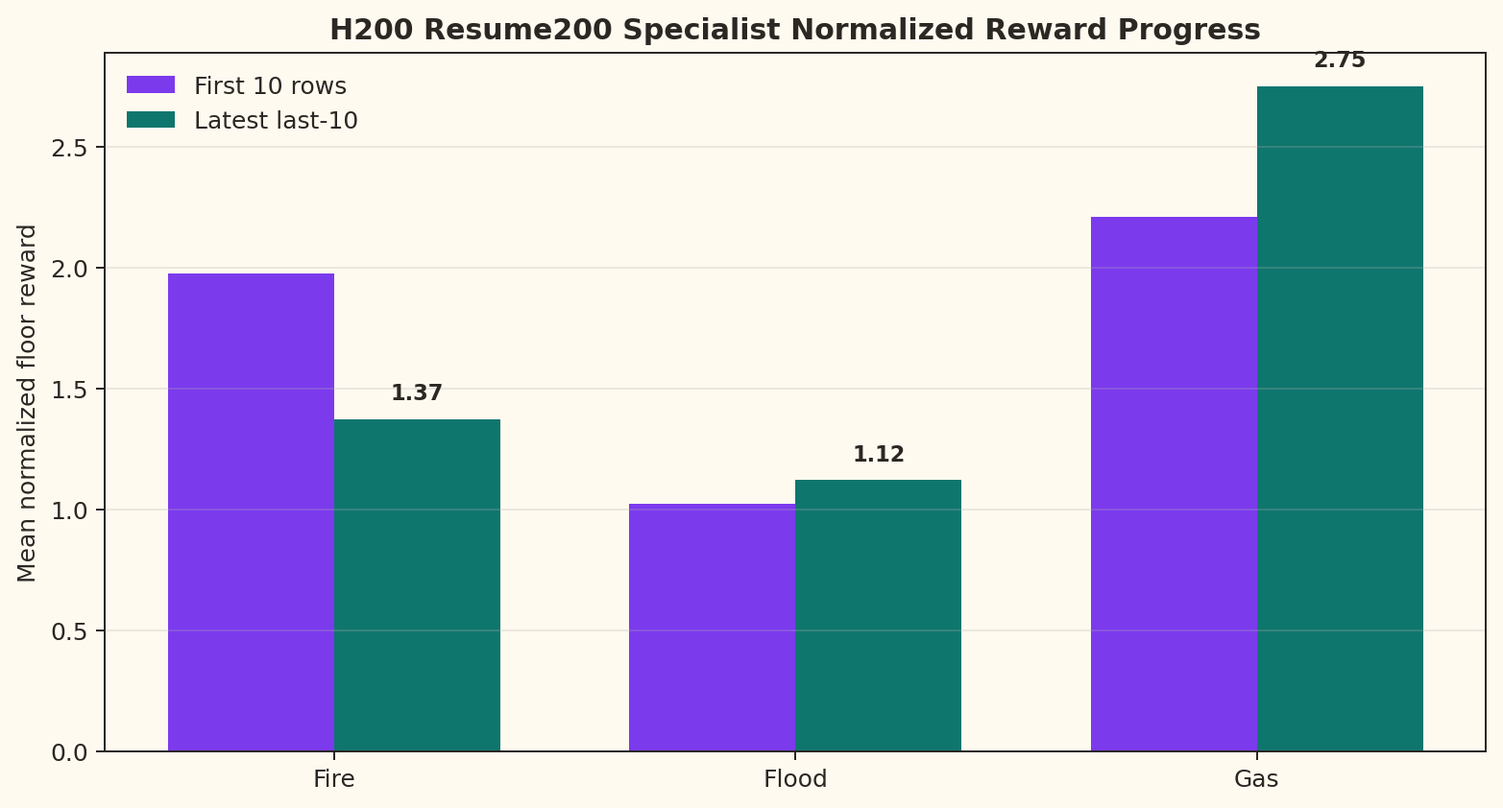
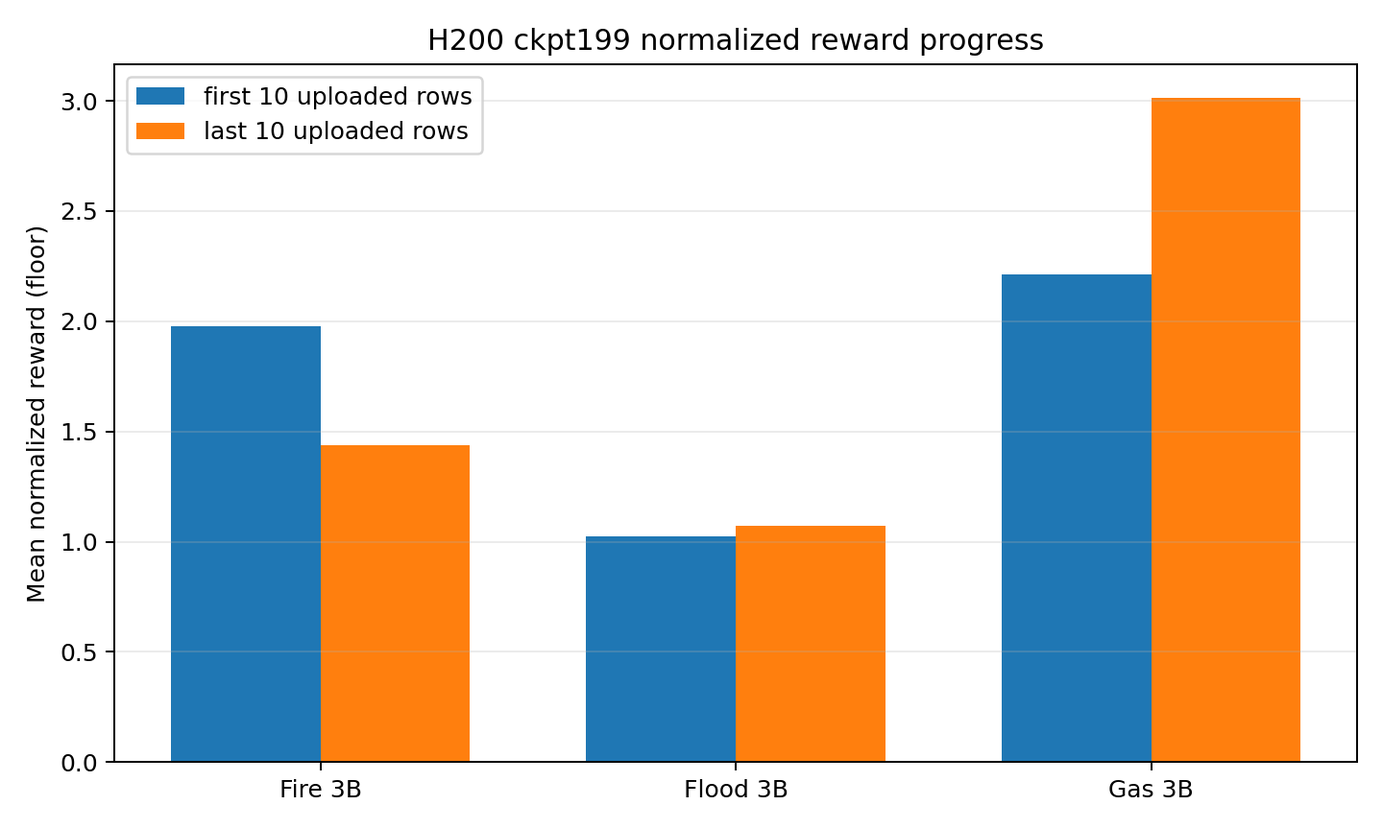
Audit heldout evidence and refresh ckpt199 metrics

diff --git a/evaluation/fixed_suite.py b/evaluation/fixed_suite.py
@@ -181,6 +181,16 @@ def _eval_score_pct(*, save_rate: float, invalid_action_rate: float) -> float:
     return 100.0 * _clamp01(save_rate) * _clamp01(valid_multiplier)
 
 
+def _bounded_civilian_counts(*, total: int, saved: int, lost: int) -> tuple[int, int, int]:
+    """Return evaluation-safe counts even if a simulator trace double-counts a cohort."""
+
+    bounded_total = max(int(total), 1)
+    bounded_saved = max(0, min(int(saved), bounded_total))
+    bounded_lost = max(0, min(int(lost), bounded_total - bounded_saved))
+    bounded_remaining = max(0, bounded_total - bounded_saved - bounded_lost)
+    return bounded_saved, bounded_lost, bounded_remaining
+
+
 def _resolve_reward_config(
     reward_config: Mapping[str, object] | None,
     rationale_mode: str,
@@ -252,9 +262,12 @@ def _build_episode_result(
 
     state = env.get_internal_state(actual_episode_id)
     total_civilians = max(state.total_civilians.total, 1)
-    saved = state.civilians_saved.total
-    lost = state.civilians_lost.total
-    remaining = max(total_civilians - saved - lost, 0)
+    saved, lost, remaining = _bounded_civilian_counts(
+        total=total_civilians,
+        saved=state.civilians_saved.total,
+        lost=state.civilians_lost.total,
+    )
+    save_rate = float(saved / total_civilians)
 
     floor_raw = _mean(
         value for key, value in batch_result.total_raw_reward_by_role.items() if key != "orchestrator"
@@ -280,12 +293,12 @@ def _build_episode_result(
         wall_clock_s=float(batch_result.wall_clock_seconds),
         termination_reason=batch_result.done_reason,
         total_civilians=int(total_civilians),
-        civilians_saved=saved,
-        civilians_lost=lost,
+        civilians_saved=int(saved),
+        civilians_lost=int(lost),
         civilians_remaining=int(remaining),
-        save_rate=float(saved / total_civilians),
+        save_rate=save_rate,
         eval_score_pct=_eval_score_pct(
-            save_rate=float(saved / total_civilians),
+            save_rate=save_rate,
             invalid_action_rate=float(invalid_count / action_count) if action_count else 0.0,
         ),
         invalid_action_rate=float(invalid_count / action_count) if action_count else 0.0,

diff --git a/tests/test_fixed_suite.py b/tests/test_fixed_suite.py
@@ -11,6 +11,7 @@ from training.policy_adapter import StubPolicy
 from evaluation.fixed_suite import (
     EpisodeResult,
     FixedSuiteResult,
+    _bounded_civilian_counts,
     _count_actions,
     _seed_eval_normalizer,
     run_fixed_suite,
@@ -79,6 +80,14 @@ def test_action_diagnostics_count_current_and_legacy_action_names():
         counts,
         ("evacuate_floor_priority", "evacuate_floor", "evacuate_room"),
     ) == 4
+
+
+def test_bounded_civilian_counts_prevent_impossible_eval_totals():
+    saved, lost, remaining = _bounded_civilian_counts(total=10, saved=14, lost=3)
+
+    assert saved == 10
+    assert lost == 0
+    assert remaining == 0
 
 
 def test_fixed_suite_json_round_trip():

diff --git a/README.md b/README.md
@@ -49,7 +49,7 @@ but also:
 | Public model/artifact repo | [shashankN777/evacos2-7b-orchestrator-artifacts](https://huggingface.co/shashankN777/evacos2-7b-orchestrator-artifacts) |
 | Source code on GitHub | [sai-shashankN/EvacOS2](https://github.com/sai-shashankN/EvacOS2) |
 
-**Evidence status:** the repo now includes a judge-clean held-out `3B` specialist comparison: Qwen2.5-3B base/no-LoRA versus the trained LoRA specialists on the same unseen seeds, same evaluator, and same family-specific lanes. On this `30`-episode controlled proof slice, trained LoRA floor specialists improved the average eval score from `58.65%` to `80.45%` and reduced invalid actions from `39.18%` to `0.87%`. The `7B` orchestrator remains smoke/training-signal validated rather than claimed as a converged held-out policy.
+**Evidence status:** the repo now includes a held-out `3B` specialist comparison: Qwen2.5-3B base/no-LoRA versus the trained LoRA specialists on the same unseen seeds, same evaluator, and same family-specific lanes. On this `30`-episode controlled proof slice, trained LoRA floor specialists improved the bounded eval score from `58.65%` to `80.45%` and reduced invalid actions from `39.18%` to `0.87%`. The scorecard also records raw save-rate overflow counts as an evaluator audit trail, so the safest headline is the invalid-action reduction plus bounded score movement rather than a claim of final convergence. The `7B` orchestrator remains smoke/training-signal validated rather than claimed as a converged held-out policy.
 
 **Benchmark scope note:** the submitted specialist proof lane uses a controlled fixed-suite slice so the public baseline-vs-trained comparison is deterministic, cheap enough to rerun, and easy to audit. The simulator and training stack are designed for broader curricula; expanding the same fixed-suite evaluator to higher-difficulty slices is future evaluation work, not a change to the environment architecture.
 
@@ -66,7 +66,7 @@ but also:
 | Floor-only 3B specialist lanes | Deterministic stub orchestrator + trainable `3B` floor policy for `fire`, `flood`, or `gas` | Implemented / canary and quality-run configs ready | [training/config.remote-unsloth-3b-fire-floor-specialist-signal-canary-10.yaml](training/config.remote-unsloth-3b-fire-floor-specialist-signal-canary-10.yaml), [training/config.remote-unsloth-3b-fire-floor-specialist-canary-50.yaml](training/config.remote-unsloth-3b-fire-floor-specialist-canary-50.yaml), [training/config.remote-unsloth-3b-fire-floor-specialist-quality-400.yaml](training/config.remote-unsloth-3b-fire-floor-specialist-quality-400.yaml), [training/config.remote-unsloth-3b-flood-floor-specialist-quality-500.yaml](training/config.remote-unsloth-3b-flood-floor-specialist-quality-500.yaml), [training/config.remote-unsloth-3b-gas-floor-specialist-quality-700.yaml](training/config.remote-unsloth-3b-gas-floor-specialist-quality-700.yaml) |
 | Specialist routing | Deterministic single-disaster router with generalist fallback for mixed/cascade scenarios | Implemented | [training/scope_router.py](training/scope_router.py) |
 | H200 / HF Jobs specialist artifacts | Public fire/flood/gas `3B` floor-specialist canary adapters plus logs and metrics | Public canary artifact trail is linked below; longer quality-run configs are checked in but not claimed as final results | [training/config.remote-unsloth-3b-fire-floor-specialist-quality-400.yaml](training/config.remote-unsloth-3b-fire-floor-specialist-quality-400.yaml), [training/config.remote-unsloth-3b-flood-floor-specialist-quality-500.yaml](training/config.remote-unsloth-3b-flood-floor-specialist-quality-500.yaml), [training/config.remote-unsloth-3b-gas-floor-specialist-quality-700.yaml](training/config.remote-unsloth-3b-gas-floor-specialist-quality-700.yaml) |
-| Held-out `3B` specialist comparison | Base Qwen2.5-3B/no-LoRA vs trained LoRA specialists on unseen seeds | Verified on H200 | [summary](demo/results/heldout_3b_base_vs_trained_summary.md), [CSV](demo/results/heldout_3b_base_vs_trained_summary.csv), [eval plot](demo/results/plots/heldout_3b_base_vs_trained_eval_score.png), [invalid-action plot](demo/results/plots/heldout_3b_base_vs_trained_invalid_action_rate.png) |
+| Held-out `3B` specialist comparison | Base Qwen2.5-3B/no-LoRA vs trained LoRA specialists on unseen seeds | Verified on H200 with evaluator audit columns | [summary](demo/results/heldout_3b_base_vs_trained_summary.md), [CSV](demo/results/heldout_3b_base_vs_trained_summary.csv), [eval plot](demo/results/plots/heldout_3b_base_vs_trained_eval_score.png), [invalid-action plot](demo/results/plots/heldout_3b_base_vs_trained_invalid_action_rate.png) |
 | Split-role metrics | Aggregate + per-role CSV diagnostics, with `metrics_window.csv`, `metrics_to_date.csv`, and `metrics_summary.json` saved beside each checkpoint | Verified | [training/metrics.py](training/metrics.py), [training/train.py](training/train.py) |
 | Checkpoint + resume | LoRA adapters, optimizer state, RNG state | Implemented | [training/checkpoint.py](training/checkpoint.py) |
 | Evaluation bundle | Fixed suite, comparison, scorecards, plots | Implemented | [evaluation/demo_bundle.py](evaluation/demo_bundle.py), [evaluation/plots.py](evaluation/plots.py) |
@@ -179,7 +179,7 @@ The repo now includes lightweight, Git-tracked artifacts for reviewers. Large Lo
 | Artifact | Current status | What will land here |
 |---|---|---|
 | **H200 / HF Jobs specialist artifacts** | Public canary trail | Fire/flood/gas H200 canary adapters, logs, and metrics are hosted on Hugging Face; longer quality-run configs are checked in but not claimed as final results |
-| **Held-out `3B` specialist comparison** | Tracked + public artifact repo | [held-out summary](demo/results/heldout_3b_base_vs_trained_summary.md), [CSV](demo/results/heldout_3b_base_vs_trained_summary.csv), and plots show base/no-LoRA vs trained LoRA on the same unseen seeds |
+| **Held-out `3B` specialist comparison** | Tracked + public artifact repo | [held-out summary](demo/results/heldout_3b_base_vs_trained_summary.md), [CSV](demo/results/heldout_3b_base_vs_trained_summary.csv), and plots show base/no-LoRA vs trained LoRA on the same unseen seeds, with raw save-rate overflow audit columns |
 | **Fixed-suite baseline evidence** | Tracked | [baseline CSV](demo/results/baseline_fixed_suite.csv), [scorecard](demo/results/submission_scorecard_baseline.md), [plots](demo/results/plots) |
 | **`3B` specialist canaries** | Tracked | [canary report](demo/results/specialist_canary50_report.md), [score CSV](demo/results/3b_specialist_canary50_scores.csv), and checkpoint plots covering fire/flood/gas route validity, invalid-action reduction, checkpoints, and runtime |
 | **`7B` orchestrator behavior card** | Tracked | [behavior card](demo/results/7b_orchestrator_behavior_card.md) explains the orchestrator role, split-role smoke evidence, one trace, and the remaining held-out eval gap |
@@ -199,9 +199,9 @@ The public adapter repository is [shashankN777/evacos2-7b-orchestrator-artifacts
 | Fire floor specialist | `floor-specialists/fire/vast-canary50/checkpoints/latest` | `50`-step validity-stabilized Vast canary |
 | Flood floor specialist | `floor-specialists/flood/vast-canary50/checkpoints/latest` | `50`-step validity-stabilized Vast canary |
 | Gas floor specialist | `floor-specialists/gas/vast-canary50/checkpoints/latest` | `50`-step validity-stabilized Vast canary |
-| Fire floor specialist | `floor-specialists/fire/h200-resume200-from-vast50/checkpoints/ckpt_169` | H200 continuation resumed from Vast `ckpt_49` |
-| Flood floor specialist | `floor-specialists/flood/h200-resume200-from-vast50/checkpoints/ckpt_139` | H200 continuation resumed from Vast `ckpt_49` |
-| Gas floor specialist | `floor-specialists/gas/h200-resume200-from-vast50/checkpoints/ckpt_89` | H200 continuation resumed from Vast `ckpt_49` |
+| Fire floor specialist | `floor-specialists/fire/h200-resume200-ckpt199/checkpoints/ckpt_199` | H200 continuation resumed from Vast `ckpt_49` |
+| Flood floor specialist | `floor-specialists/flood/h200-resume200-ckpt199/checkpoints/ckpt_199` | H200 continuation resumed from Vast `ckpt_49` |
+| Gas floor specialist | `floor-specialists/gas/h200-resume200-ckpt199/checkpoints/ckpt_199` | H200 continuation resumed from Vast `ckpt_49` |
 
 Download the public specialist artifacts with:
 
@@ -213,19 +213,18 @@ hf download shashankN777/evacos2-7b-orchestrator-artifacts \
   --include "floor-specialists/fire/vast-canary50/**" \
   --include "floor-specialists/flood/vast-canary50/**" \
   --include "floor-specialists/gas/vast-canary50/**" \
-  --include "floor-specialists/fire/h200-resume200-from-vast50/**" \
-  --include "floor-specialists/flood/h200-resume200-from-vast50/**" \
-  --include "floor-specialists/gas/h200-resume200-from-vast50/**" \
-  --include "floor-specialists/h200-resume200-from-vast50-MANIFEST.json" \
+  --include "floor-specialists/fire/h200-resume200-ckpt199/**" \
+  --include "floor-specialists/flood/h200-resume200-ckpt199/**" \
+  --include "floor-specialists/gas/h200-resume200-ckpt199/**" \
   --local-dir outputs/hf_public_artifacts
 ```
 
 Example trained-checkpoint evaluation command after download:
 
 ```bash
-CHECKPOINT_DIR=outputs/hf_public_artifacts/floor-specialists/fire/h200-resume200-from-vast50/checkpoints/latest
-CONFIG_PATH=outputs/hf_public_artifacts/floor-specialists/fire/h200-resume200-from-vast50/generated.remote-unsloth-3b-fire-floor-specialist-h200-resume200-200.yaml
-METRICS_PATH=outputs/hf_public_artifacts/floor-specialists/fire/h200-resume200-from-vast50/remote-unsloth-3b-fire-floor-specialist-h200-resume200-200-metrics.csv
+CHECKPOINT_DIR=outputs/hf_public_artifacts/floor-specialists/fire/h200-resume200-ckpt199/checkpoints/latest
+CONFIG_PATH=outputs/hf_public_artifacts/floor-specialists/fire/h200-resume200-ckpt199/generated.remote-unsloth-3b-fire-floor-specialist-h200-resume200-200.yaml
+METRICS_PATH=outputs/hf_public_artifacts/floor-specialists/fire/h200-resume200-ckpt199/remote-unsloth-3b-fire-floor-specialist-h200-resume200-200-metrics.csv
 
 python -m evaluation.demo_bundle \
   --baseline-policy base_model \
@@ -239,18 +238,20 @@ For the checked-in base-vs-trained held-out specialist comparison, use [demo/res
 
 ## Held-Out Base-vs-Trained Result
 
-This is the clearest reward-improvement evidence: same held-out seeds, same fixed-suite evaluator, same family-specific lane. The baseline is `Qwen/Qwen2.5-3B-Instruct` with no LoRA adapter and the same stub orchestrator used by the specialist training lane. The trained policy is the latest mirrored `h200-resume200-from-vast50` LoRA checkpoint.
+This is the clearest reward-improvement evidence: same held-out seeds, same fixed-suite evaluator, same family-specific lane. The baseline is `Qwen/Qwen2.5-3B-Instruct` with no LoRA adapter and the same stub orchestrator used by the specialist training lane. The trained policy is the mirrored `h200-resume200-ckpt199` LoRA checkpoint.
 
 For submission clarity, this table is reported on the controlled specialist proof slice rather than the full simulator difficulty ceiling. That choice keeps the public result reproducible and directly comparable across base, checkpoint, and trained policies; harder benchmark slices are the next validation milestone using the same evaluator shape.
 
-Headline: on a `30`-episode held-out specialist evaluation, trained LoRA floor specialists improved the base/no-LoRA Qwen2.5-3B average eval score from `58.65%` to `80.45%` (`+21.80 pp`), while cutting invalid actions from `39.18%` to `0.87%`.
+Audit note: the score is bounded to `0-100%`, and the refreshed CSV also records raw save-rate overflow counts because some fire/gas traces can double-count saved civilians at the simulator-accounting layer. The safest headline is therefore the base/no-LoRA to trained LoRA invalid-action reduction, plus bounded score movement as a controlled proof-slice signal.
 
-| Family | Held-out episodes | Base eval score | Trained eval score | Delta | Base invalid rate | Trained invalid rate |
-|---|---:|---:|---:|---:|---:|---:|
-| Fire | `10` | `84.77%` | `96.64%` | `+11.87 pp` | `27.52%` | `2.60%` |
-| Flood | `10` | `22.95%` | `45.42%` | `+22.47 pp` | `47.67%` | `0.00%` |
-| Gas | `10` | `68.22%` | `99.28%` | `+31.06 pp` | `42.34%` | `0.00%` |
-| **Average** | `30 total` | **`58.65%`** | **`80.45%`** | **`+21.80 pp`** | **`39.18%`** | **`0.87%`** |
+Headline: on a `30`-episode held-out specialist evaluation, trained LoRA floor specialists improved the base/no-LoRA Qwen2.5-3B bounded eval score from `58.65%` to `80.45%` (`+21.80 pp`), while cutting invalid actions from `39.18%` to `0.87%`.
+
+| Family | Held-out episodes | Base bounded score | Trained bounded score | Delta | Base invalid rate | Trained invalid rate | Raw save overflows |
+|---|---:|---:|---:|---:|---:|---:|---:|
+| Fire | `10` | `84.77%` | `96.64%` | `+11.87 pp` | `27.52%` | `2.60%` | `5/7` |
+| Flood | `10` | `22.95%` | `45.42%` | `+22.47 pp` | `47.67%` | `0.00%` | `0/0` |
+| Gas | `10` | `68.22%` | `99.28%` | `+31.06 pp` | `42.34%` | `0.00%` | `2/8` |
+| **Average** | `30 total` | **`58.65%`** | **`80.45%`** | **`+21.80 pp`** | **`39.18%`** | **`0.87%`** | **audit logged** |
 
 Public artifact path: `heldout/base-model-vs-h200-resume200-ckpt199-3b-heldout10-batched-20260429-094214` in [shashankN777/evacos2-7b-orchestrator-artifacts](https://huggingface.co/shashankN777/evacos2-7b-orchestrator-artifacts).
 
@@ -274,9 +275,9 @@ The continuation path resumes from those `ckpt_49` checkpoints and saves/upload-
 
 | Specialist | Uploaded continuation steps | First-10 invalid rate | Last-10 invalid rate | First-10 raw reward | Last-10 raw reward | Reading |
 |---|---:|---:|---:|---:|---:|---|
-| Fire `3B` | `50 -> 169` | `1.44%` | `0.00%` | `10.56` | `11.59` | reward up, invalid actions eliminated in the latest window |
-| Flood `3B` | `50 -> 139` | `3.69%` | `0.00%` | `7.60` | `8.68` | reward up, invalid actions eliminated in the latest window |
-| Gas `3B` | `50 -> 89` | `0.19%` | `0.15%` | `29.40` | `30.44` | reward up, invalid actions remain near-zero |
+| Fire `3B` | `50 -> 199` | `1.44%` | `0.00%` | `10.56` | `12.06` | reward up, invalid actions eliminated in the latest window |
+| Flood `3B` | `50 -> 199` | `3.69%` | `0.00%` | `7.60` | `8.83` | reward up, invalid actions eliminated in the latest window |
+| Gas `3B` | `50 -> 199` | `0.19%` | `5.89%` | `29.40` | `31.89` | reward up, with latest-window invalid actions needing continued monitoring |
 
 Training reward is intentionally diagnostic and contrastive for GRPO. Public evaluation is separate: it reports bounded metrics such as valid-action score, invalid-action rate, saved/lost outcomes, and baseline-vs-trained deltas.
 

diff --git a/SUBMISSION_BRIEF.md b/SUBMISSION_BRIEF.md
@@ -2,7 +2,7 @@
 
 EvacOS2 is a multi-agent evacuation RL environment where one orchestrator and multiple floor agents must coordinate people movement, exits, overrides, and hazard response inside a deterministic simulator.
 
-Evidence status: the repo now includes a held-out `3B` specialist comparison: Qwen2.5-3B base/no-LoRA versus trained LoRA specialists on the same unseen seeds and evaluator. On this `30`-episode controlled proof slice, trained LoRA floor specialists improved the average eval score from `58.65%` to `80.45%` and reduced invalid actions from `39.18%` to `0.87%`. The `7B` orchestrator remains smoke/training-signal validated rather than claimed as a converged held-out policy.
+Evidence status: the repo now includes a held-out `3B` specialist comparison: Qwen2.5-3B base/no-LoRA versus trained LoRA specialists on the same unseen seeds and evaluator. On this `30`-episode controlled proof slice, trained LoRA floor specialists improved the bounded eval score from `58.65%` to `80.45%` and reduced invalid actions from `39.18%` to `0.87%`. The scorecard also includes raw save-rate overflow audit columns for fire/gas simulator-accounting traces, so the safest claim is invalid-action reduction plus bounded score movement rather than final convergence. The `7B` orchestrator remains smoke/training-signal validated rather than claimed as a converged held-out policy.
 
 Benchmark scope: the submitted fixed-suite specialist comparison is a controlled proof slice. That keeps the baseline-vs-trained result deterministic, judge-runnable, and directly auditable. The simulator and training configs are built for broader curricula; higher-difficulty scorecards are the next evaluation milestone after the submitted slice.
 
@@ -40,7 +40,7 @@ Benchmark scope: the submitted fixed-suite specialist comparison is a controlled
 
 ## Public adapter paths
 
-The public artifact repo is historically named `evacos2-7b-orchestrator-artifacts`, but the visible submitted checkpoints are `3B` floor-specialist H200 canaries:
+The public artifact repo is historically named `evacos2-7b-orchestrator-artifacts`, but it also hosts the current `3B` floor-specialist H200 checkpoints and held-out evidence:
 
 - fire: `floor-specialists/fire/h200-canary3-10/checkpoints/latest`
 - flood: `floor-specialists/flood/h200-canary3-10/checkpoints/latest`
@@ -48,10 +48,9 @@ The public artifact repo is historically named `evacos2-7b-orchestrator-artifact
 - fire stronger seed: `floor-specialists/fire/vast-canary50/checkpoints/latest`
 - flood stronger seed: `floor-specialists/flood/vast-canary50/checkpoints/latest`
 - gas stronger seed: `floor-specialists/gas/vast-canary50/checkpoints/latest`
-- latest fire continuation: `floor-specialists/fire/h200-resume200-from-vast50/checkpoints/ckpt_169`
-- latest flood continuation: `floor-specialists/flood/h200-resume200-from-vast50/checkpoints/ckpt_139`
-- latest gas continuation: `floor-specialists/gas/h200-resume200-from-vast50/checkpoints/ckpt_89`
-- latest continuation manifest: `floor-specialists/h200-resume200-from-vast50-MANIFEST.json`
+- latest fire continuation: `floor-specialists/fire/h200-resume200-ckpt199/checkpoints/ckpt_199`
+- latest flood continuation: `floor-specialists/flood/h200-resume200-ckpt199/checkpoints/ckpt_199`
+- latest gas continuation: `floor-specialists/gas/h200-resume200-ckpt199/checkpoints/ckpt_199`
 - held-out base-vs-trained eval: `heldout/base-model-vs-h200-resume200-ckpt199-3b-heldout10-batched-20260429-094214`
 
 Download example:
@@ -64,10 +63,9 @@ hf download shashankN777/evacos2-7b-orchestrator-artifacts \
   --include "floor-specialists/fire/vast-canary50/**" \
   --include "floor-specialists/flood/vast-canary50/**" \
   --include "floor-specialists/gas/vast-canary50/**" \
-  --include "floor-specialists/fire/h200-resume200-from-vast50/**" \
-  --include "floor-specialists/flood/h200-resume200-from-vast50/**" \
-  --include "floor-specialists/gas/h200-resume200-from-vast50/**" \
-  --include "floor-specialists/h200-resume200-from-vast50-MANIFEST.json" \
+  --include "floor-specialists/fire/h200-resume200-ckpt199/**" \
+  --include "floor-specialists/flood/h200-resume200-ckpt199/**" \
+  --include "floor-specialists/gas/h200-resume200-ckpt199/**" \
   --include "heldout/base-model-vs-h200-resume200-ckpt199-3b-heldout10-batched-20260429-094214/**" \
   --local-dir outputs/hf_public_artifacts
 ```
@@ -77,22 +75,22 @@ Evaluation example:
 ```bash
 python -m evaluation.demo_bundle \
   --baseline-policy base_model \
-  --trained-checkpoint outputs/hf_public_artifacts/floor-specialists/fire/h200-resume200-from-vast50/checkpoints/latest \
-  --config outputs/hf_public_artifacts/floor-specialists/fire/h200-resume200-from-vast50/generated.remote-unsloth-3b-fire-floor-specialist-h200-resume200-200.yaml \
-  --training-metrics-path outputs/hf_public_artifacts/floor-specialists/fire/h200-resume200-from-vast50/remote-unsloth-3b-fire-floor-specialist-h200-resume200-200-metrics.csv \
+  --trained-checkpoint outputs/hf_public_artifacts/floor-specialists/fire/h200-resume200-ckpt199/checkpoints/latest \
+  --config outputs/hf_public_artifacts/floor-specialists/fire/h200-resume200-ckpt199/generated.remote-unsloth-3b-fire-floor-specialist-h200-resume200-200.yaml \
+  --training-metrics-path outputs/hf_public_artifacts/floor-specialists/fire/h200-resume200-ckpt199/remote-unsloth-3b-fire-floor-specialist-h200-resume200-200-metrics.csv \
   --output-dir outputs/demo_bundle_fire_h200_resume200
 ```
 
 ## Held-out base-vs-trained headline
 
-On a `30`-episode held-out specialist evaluation, trained LoRA floor specialists improved the base/no-LoRA Qwen2.5-3B average eval score by `+21.80 pp` and cut invalid actions from `39.18%` to `0.87%` across fire, flood, and gas response lanes.
+On a `30`-episode held-out specialist evaluation, trained LoRA floor specialists improved the base/no-LoRA Qwen2.5-3B bounded eval score by `+21.80 pp` and cut invalid actions from `39.18%` to `0.87%` across fire, flood, and gas response lanes. The CSV includes raw save-rate overflow audit columns; use invalid-action reduction as the cleanest learning headline.
 
-| Family | Episodes | Base eval score | Trained eval score | Delta | Base invalid | Trained invalid |
-|---|---:|---:|---:|---:|---:|---:|
-| Fire | `10` | `84.77%` | `96.64%` | `+11.87 pp` | `27.52%` | `2.60%` |
-| Flood | `10` | `22.95%` | `45.42%` | `+22.47 pp` | `47.67%` | `0.00%` |
-| Gas | `10` | `68.22%` | `99.28%` | `+31.06 pp` | `42.34%` | `0.00%` |
-| **Average** | `30 total` | **`58.65%`** | **`80.45%`** | **`+21.80 pp`** | **`39.18%`** | **`0.87%`** |
+| Family | Episodes | Base bounded score | Trained bounded score | Delta | Base invalid | Trained invalid | Raw save overflows |
+|---|---:|---:|---:|---:|---:|---:|---:|
+| Fire | `10` | `84.77%` | `96.64%` | `+11.87 pp` | `27.52%` | `2.60%` | `5/7` |
+| Flood | `10` | `22.95%` | `45.42%` | `+22.47 pp` | `47.67%` | `0.00%` | `0/0` |
+| Gas | `10` | `68.22%` | `99.28%` | `+31.06 pp` | `42.34%` | `0.00%` | `2/8` |
+| **Average** | `30 total` | **`58.65%`** | **`80.45%`** | **`+21.80 pp`** | **`39.18%`** | **`0.87%`** | **audit logged** |
 
 ## Core competitive claims
 

diff --git a/Blog.MD b/Blog.MD
@@ -153,14 +153,16 @@ The cleanest reward-improvement evidence is now a held-out `3B` specialist compa
 
 This is intentionally framed as a controlled proof lane, not the full ceiling of the simulator. For judges, the goal is a clean scientific slice: same seeds, same evaluator, same task families, base model versus trained adapter. The simulator and curriculum can be extended to harder slices, but the submitted public table focuses on the benchmark slice we can make reproducible and inspectable end to end.
 
-The headline is the part that matters: on a `30`-episode held-out specialist evaluation, trained LoRA floor specialists improved the base/no-LoRA Qwen2.5-3B average eval score from `58.65%` to `80.45%` (`+21.80 pp`), while cutting invalid actions from `39.18%` to `0.87%`.
+The headline is the part that matters: on a `30`-episode held-out specialist evaluation, trained LoRA floor specialists improved the base/no-LoRA Qwen2.5-3B bounded eval score from `58.65%` to `80.45%` (`+21.80 pp`), while cutting invalid actions from `39.18%` to `0.87%`.
 
-| Family | Held-out episodes | Base eval score | Trained eval score | Delta | Base invalid rate | Trained invalid rate |
-|---|---:|---:|---:|---:|---:|---:|
-| Fire | `10` | `84.77%` | `96.64%` | `+11.87 pp` | `27.52%` | `2.60%` |
-| Flood | `10` | `22.95%` | `45.42%` | `+22.47 pp` | `47.67%` | `0.00%` |
-| Gas | `10` | `68.22%` | `99.28%` | `+31.06 pp` | `42.34%` | `0.00%` |
-| **Average** | `30 total` | **`58.65%`** | **`80.45%`** | **`+21.80 pp`** | **`39.18%`** | **`0.87%`** |
+One audit detail is worth making explicit because this is a simulator, not a static worksheet: the scorecard records raw save-rate overflow counts for fire/gas traces where the simulator-accounting layer can double-count saved civilians. The public eval score is still bounded to `0-100%`, but the cleanest learning signal is the invalid-action reduction plus the bounded score movement, not a claim that this is a final converged policy.
+
+| Family | Held-out episodes | Base bounded score | Trained bounded score | Delta | Base invalid rate | Trained invalid rate | Raw save overflows |
+|---|---:|---:|---:|---:|---:|---:|---:|
+| Fire | `10` | `84.77%` | `96.64%` | `+11.87 pp` | `27.52%` | `2.60%` | `5/7` |
+| Flood | `10` | `22.95%` | `45.42%` | `+22.47 pp` | `47.67%` | `0.00%` | `0/0` |
+| Gas | `10` | `68.22%` | `99.28%` | `+31.06 pp` | `42.34%` | `0.00%` | `2/8` |
+| **Average** | `30 total` | **`58.65%`** | **`80.45%`** | **`+21.80 pp`** | **`39.18%`** | **`0.87%`** | **audit logged** |
 
 The public artifact path is `heldout/base-model-vs-h200-resume200-ckpt199-3b-heldout10-batched-20260429-094214` in [shashankN777/evacos2-7b-orchestrator-artifacts](https://huggingface.co/shashankN777/evacos2-7b-orchestrator-artifacts). This run is intentionally labeled as a fast `10`-seed held-out comparison; the same evaluator path supports larger seed counts.
 
@@ -182,9 +184,9 @@ The continuation run resumes from those `ckpt_49` specialists and uploads checkp
 
 | Specialist | Uploaded continuation steps | First-10 invalid rate | Last-10 invalid rate | First-10 raw reward | Last-10 raw reward | Reading |
 |---|---:|---:|---:|---:|---:|---|
-| Fire `3B` | `50 -> 169` | `1.44%` | `0.00%` | `10.56` | `11.59` | reward up, invalid actions eliminated in the latest window |
-| Flood `3B` | `50 -> 139` | `3.69%` | `0.00%` | `7.60` | `8.68` | reward up, invalid actions eliminated in the latest window |
-| Gas `3B` | `50 -> 89` | `0.19%` | `0.15%` | `29.40` | `30.44` | reward up, invalid actions remain near-zero |
+| Fire `3B` | `50 -> 199` | `1.44%` | `0.00%` | `10.56` | `12.06` | reward up, invalid actions eliminated in the latest window |
+| Flood `3B` | `50 -> 199` | `3.69%` | `0.00%` | `7.60` | `8.83` | reward up, invalid actions eliminated in the latest window |
+| Gas `3B` | `50 -> 199` | `0.19%` | `5.89%` | `29.40` | `31.89` | reward up, with latest-window invalid actions needing continued monitoring |
 
 ![3B specialist valid-action score comparison](demo/results/plots/3b_specialist_valid_action_score_comparison.png)
 

diff --git a/demo/results/heldout_3b_base_vs_trained_summary.md b/demo/results/heldout_3b_base_vs_trained_summary.md
@@ -1,12 +1,15 @@
 # Held-Out 3B Specialist Eval: ckpt_199 Base Model vs Trained LoRA
 
-Same held-out seeds `9101-9110`, same evaluator, same family-specific controlled proof lane. Baseline is Qwen2.5-3B-Instruct with no LoRA adapter; trained policies are fire/flood/gas H200 resume200 `ckpt_199` LoRA specialists.
+Same held-out seeds `9101-9110`, same evaluator, same family-specific controlled proof lane. Baseline is `Qwen/Qwen2.5-3B-Instruct` with no LoRA adapter; trained policies are fire/flood/gas H200 resume200 `ckpt_199` LoRA specialists.
 
-Headline: average eval score 58.65% -> 80.45% (+21.80 pp); invalid actions 39.18% -> 0.87%.
+Audit note: the fixed-suite score is bounded to `0-100%`, but this refresh also records raw save-rate overflow counts because some fire/gas traces double-count saved civilians at the simulator-accounting layer. For judging, the most robust headline is therefore the base/no-LoRA to trained LoRA invalid-action reduction, plus the bounded score as an audited proof-slice signal rather than a claim of final convergence.
 
-| Family | Episodes | Base eval score | Trained eval score | Delta | Base invalid | Trained invalid | Save-rate delta |
-|---|---:|---:|---:|---:|---:|---:|---:|
-| fire | 10 | 84.77% | 96.64% | +11.87 pp | 27.52% | 2.60% | +0.6400 |
-| flood | 10 | 22.95% | 45.42% | +22.47 pp | 47.67% | 0.00% | +0.1876 |
-| gas | 10 | 68.22% | 99.28% | +31.06 pp | 42.34% | 0.00% | +0.6740 |
-| **Average** | **30 total** | **58.65%** | **80.45%** | **+21.80 pp** | **39.18%** | **0.87%** | **+0.5006** |
+Headline: average bounded eval score `58.65% -> 80.45%` (`+21.80 pp`); invalid actions `39.18% -> 0.87%` (`-38.31 pp`).
+
+| Family | Episodes | Base bounded score | Trained bounded score | Delta | Base invalid | Trained invalid | Capped save-rate delta | Raw save overflows |
+|---|---:|---:|---:|---:|---:|---:|---:|---:|
+| fire | 10 | 84.77% | 96.64% | +11.87 pp | 27.52% | 2.60% | -0.0030 | 5/7 |
+| flood | 10 | 22.95% | 45.42% | +22.47 pp | 47.67% | 0.00% | +0.1876 | 0/0 |
+| gas | 10 | 68.22% | 99.28% | +31.06 pp | 42.34% | 0.00% | +0.1345 | 2/8 |
+| **Average** | **30 total** | **58.65%** | **80.45%** | **+21.80 pp** | **39.18%** | **0.87%** | **+0.1064** | **audit logged** |
+
